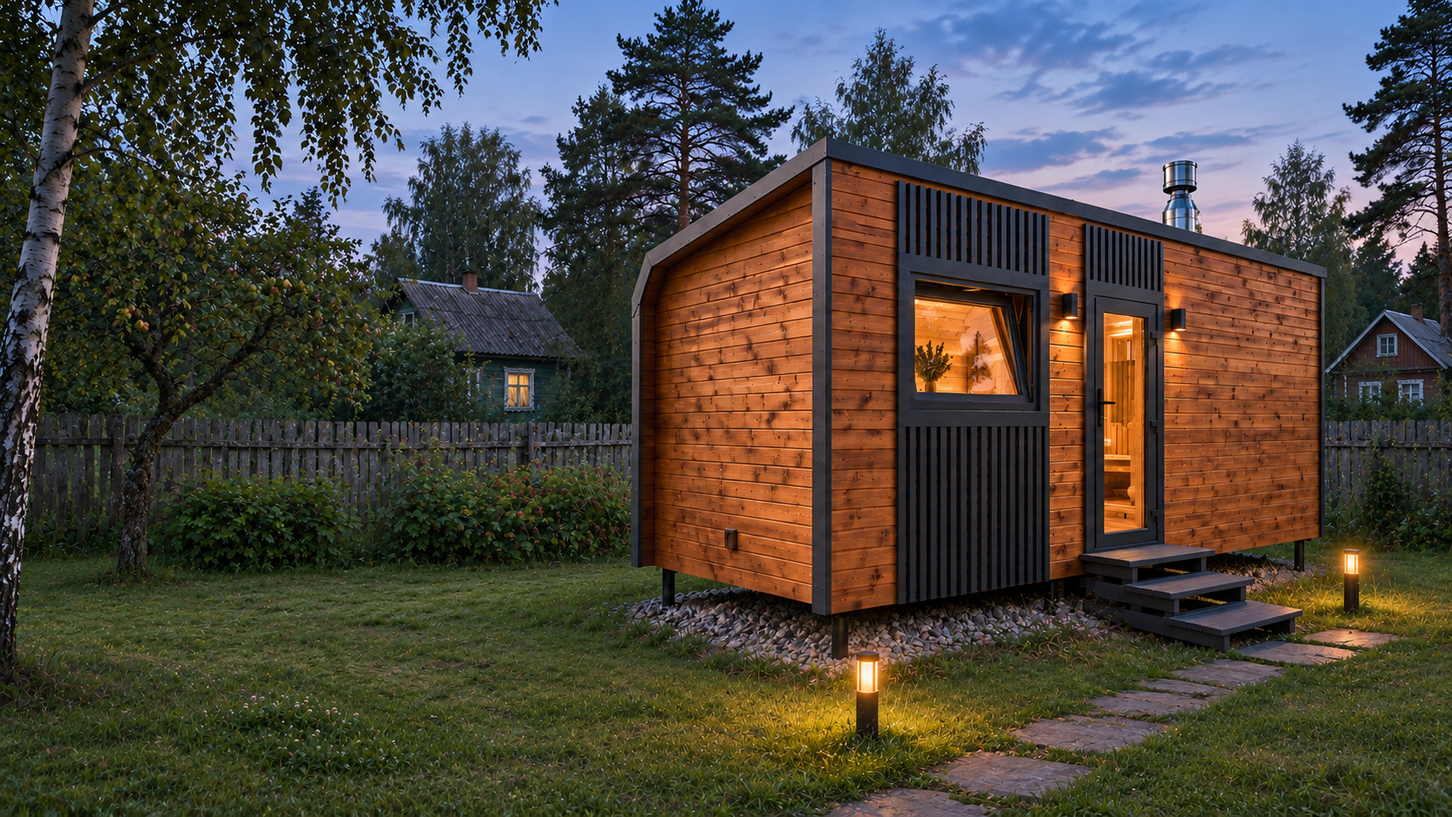
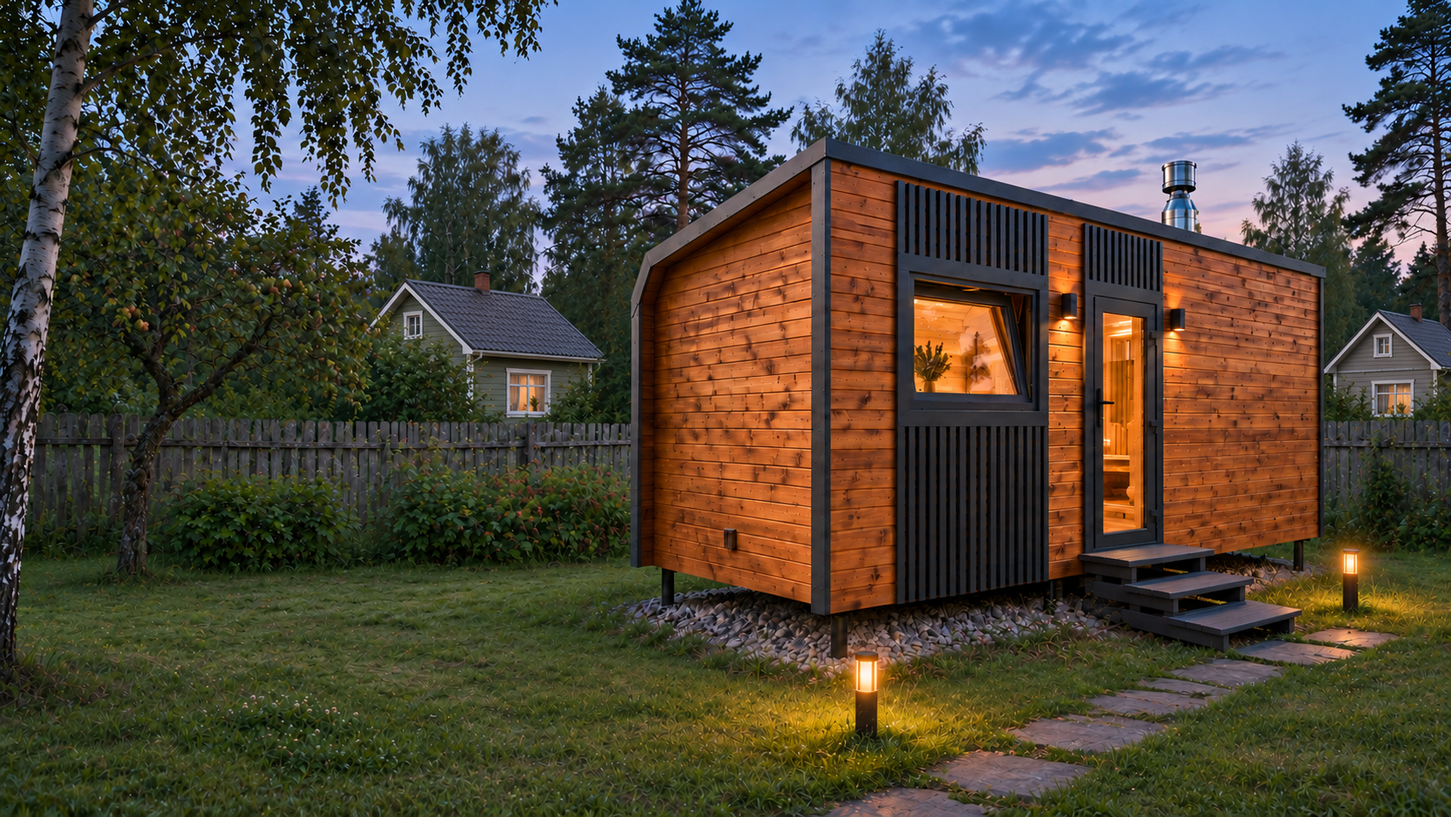
Compact home catalogue and add return links from plans

diff --git a/concepts/home-hero/baseline/plans.html b/concepts/home-hero/baseline/plans.html
@@ -1,0 +1,5 @@
+<!DOCTYPE html>
+
+<html lang="ru"><head><meta charset="utf-8"/><meta content="width=device-width,initial-scale=1" name="viewport"/><meta content="#fafaf7" name="theme-color"/><title>Примеры планировок | ДачаПар</title><meta content="Восемь примеров планировок бань ДачаПар: парная, отдых и душевая зона. По два варианта для каждой модели. Поможем продумать пространство под ваши привычки. " name="description"/><link href="https://xn--80aaan1dh9b.xn--p1ai/planirovki/" rel="canonical"/><meta content="Примеры планировок | ДачаПар" property="og:title"/><meta content="ДачаПар" property="og:site_name"/><meta content="ru_RU" property="og:locale"/><meta content="https://xn--80aaan1dh9b.xn--p1ai/planirovki/" property="og:url"/><meta content="Восемь примеров планировок бань ДачаПар: парная, отдых и душевая зона. По два варианта для каждой модели. Поможем продумать пространство под ваши привычки." property="og:description"/><meta content="website" property="og:type"/><meta content="summary_large_image" name="twitter:card"/><meta content="https://xn--80aaan1dh9b.xn--p1ai/qh-media/assets/photos/kh7-06-960.webp" property="og:image"/><meta content="index,follow" name="robots"/><link as="font" crossorigin="" href="/assets/manrope-cyrillic.woff2" rel="preload" type="font/woff2"/><link href="/r101/vendor/scrollcraft.css" rel="stylesheet"/><link href="/r101/site.css" rel="stylesheet"/><link href="/r101/visual.css" rel="stylesheet"/><script type="application/ld+json">{"@context": "https://schema.org", "@graph": [{"@type": "Organization", "@id": "https://xn--80aaan1dh9b.xn--p1ai/#organization", "name": "ДачаПар", "url": "https://xn--80aaan1dh9b.xn--p1ai/", "telephone": "+79517349999", "areaServed": [{"@type": "City", "name": "Москва"}, {"@type": "AdministrativeArea", "name": "Московская область"}, {"@type": "AdministrativeArea", "name": "Вологодская область"}, {"@type": "AdministrativeArea", "name": "Ярославская область"}, {"@type": "AdministrativeArea", "name": "Ленинградская область"}, {"@type": "City", "name": "Санкт-Петербург"}], "location": {"@type": "Place", "name": "Производство ДачаПар", "address": {"@type": "PostalAddress", "addressLocality": "Вологда", "addressRegion": "Вологодская область", "addressCountry": "RU"}}}, {"@type": "WebSite", "@id": "https://xn--80aaan1dh9b.xn--p1ai/#website", "url": "https://xn--80aaan1dh9b.xn--p1ai/", "name": "ДачаПар", "inLanguage": "ru-RU", "publisher": {"@id": "https://xn--80aaan1dh9b.xn--p1ai/#organization"}}, {"@type": "WebPage", "@id": "https://xn--80aaan1dh9b.xn--p1ai/planirovki/#webpage", "url": "https://xn--80aaan1dh9b.xn--p1ai/planirovki/", "name": "Примеры планировок", "description": "Восемь примеров планировок бань ДачаПар: парная, отдых и душевая зона. По два варианта для каждой модели. Поможем продумать пространство под ваши привычки.", "inLanguage": "ru-RU", "isPartOf": {"@id": "https://xn--80aaan1dh9b.xn--p1ai/#website"}, "breadcrumb": {"@id": "https://xn--80aaan1dh9b.xn--p1ai/planirovki/#breadcrumbs"}}, {"@type": "BreadcrumbList", "@id": "https://xn--80aaan1dh9b.xn--p1ai/planirovki/#breadcrumbs", "itemListElement": [{"@type": "ListItem", "position": 1, "name": "Главная", "item": "https://xn--80aaan1dh9b.xn--p1ai/"}, {"@type": "ListItem", "position": 2, "name": "Примеры планировок", "item": "https://xn--80aaan1dh9b.xn--p1ai/planirovki/"}]}]}</script><link href="/favicon.ico?v=r103" rel="icon" sizes="16x16 32x32 48x48" type="image/x-icon"/><link href="/favicon-48.png?v=r103" rel="icon" sizes="48x48" type="image/png"/><link href="/favicon.svg?v=r103" rel="icon" sizes="any" type="image/svg+xml"/><link href="/favicon-180.png?v=r103" rel="apple-touch-icon" sizes="180x180"/></head><body data-release="R105"><a class="skip" href="#main">К содержанию</a><header class="site-header"><a aria-label="ДачаПар, главная" class="wordmark" href="/"><svg aria-hidden="true" class="mark" viewbox="0 0 32 38"><path d="M6 33c-8-10 8-13 1-23M16 34c-10-12 10-16 1-29M26 32c-8-9 7-12 1-21"></path></svg>дача пар</a><nav aria-label="Основная навигация" class="desktop-nav"><a href="/bani/">Бани и цены</a><a href="/komplektaciya/">Что входит</a><a href="/planirovki/">Планировки</a><a href="/dostavka-i-ustanovka/">Доставка</a></nav><a class="phone" href="tel:+79517349999">+7 (951) 734-99-99</a><button aria-controls="mobile-menu" aria-expanded="false" class="menu-button">Меню</button></header><nav aria-label="Мобильная навигация" class="mobile-menu" hidden="" id="mobile-menu"><a href="/bani/">Бани и цены</a><a href="/komplektaciya/">Что входит</a><a href="/planirovki/">Планировки</a><a href="/dostavka-i-ustanovka/">Доставка</a><a href="/kontakty/">Контакты</a></nav><main id="main"><header class="wrap page-head"><nav aria-label="Навигационная цепочка" class="breadcrumb"><a href="/">Главная</a><span>/</span><span>Как будет устроена&lt;br&gt;ваша баня</span></nav><h1>Как будет устроена<br/>ваша баня</h1><p class="lede">По два примера для каждой модели. Планировку и расстановку мебели можно обсудить индивидуально.</p></header><section class="wrap section" style="padding-top:0"><nav aria-label="Фильтр планировок" class="filters"><a href="/planirovki/">Все модели</a><a href="?model=kvadro">Квадро</a><a href="?model=parus">Парус</a><a href="?model=viking">Викинг</a><a href="?model=kvadro-house">Квадро Хаус</a></nav><p class="form-status" hidden="" id="plan-notice"></p><div class="plan-grid"><article class="plan" data-plan-model="kvadro" id="plan-p1"><a aria-label="Открыть схему Квадро 4 × 2,1 м · вариант 1" href="/assets/plans/r93/p1.webp"><img alt="Квадро 4 × 2,1 м · вариант 1" class="" decoding="async" height="1080" loading="lazy" src="/assets/plans/r93/p1.webp" width="1620"/></a><p class="eyebrow">Квадро · 4 м</p><h3>Для отдыха вдвоём</h3><p>Компактная баня с отдельной парной и местом для чаепития</p><button class="btn" data-inquiry="plan" data-model="kvadro" data-plan="p1" data-plan-label="Для отдыха вдвоём" data-size="400" type="button">Обсудить планировку<span aria-hidden="true">↗</span></button></article><article class="plan" data-plan-model="kvadro" id="plan-p5"><a aria-label="Открыть схему Квадро 6 × 2,1 м · вариант 1" href="/assets/plans/r93/p5.webp"><img alt="Квадро 6 × 2,1 м · вариант 1" class="" decoding="async" height="1080" loading="lazy" src="/assets/plans/r93/p5.webp" width="1620"/></a><p class="eyebrow">Квадро · 6 м</p><h3>С местом для душа</h3><p>Парная, комната отдыха и душевая ниша внутри бани</p><button class="btn" data-inquiry="plan" data-model="kvadro" data-plan="p5" data-plan-label="С местом для душа" data-size="600" type="button">Обсудить планировку<span aria-hidden="true">↗</span></button></article><article class="plan" data-plan-model="parus" id="plan-parus_4000_2400_dry"><a aria-label="Открыть схему Парус 4 × 2,4 м · вариант 1" href="/assets/plans/r93/parus_4000_2400_dry.webp"><img alt="Парус 4 × 2,4 м · вариант 1" class="" decoding="async" height="1080" loading="lazy" src="/assets/plans/r93/parus_4000_2400_dry.webp" width="1620"/></a><p class="eyebrow">Парус · 4 м</p><h3>Для неспешных выходных</h3><p>Парная и комната отдыха в корпусе длиной 4 метра</p><button class="btn" data-inquiry="plan" data-model="parus" data-plan="parus_4000_2400_dry" data-plan-label="Для неспешных выходных" data-size="400" type="button">Обсудить планировку<span aria-hidden="true">↗</span></button></article><article class="plan" data-plan-model="parus" id="plan-parus_5000_2400_wash"><a aria-label="Открыть схему Парус 5 × 2,4 м · вариант 2" href="/assets/plans/r93/parus_5000_2400_wash.webp"><img alt="Парус 5 × 2,4 м · вариант 2" class="" decoding="async" height="1080" loading="lazy" src="/assets/plans/r93/parus_5000_2400_wash.webp" width="1620"/></a><p class="eyebrow">Парус · 5 м</p><h3>Парная и место для душа</h3><p>Больше возможностей для отдыха между заходами</p><button class="btn" data-inquiry="plan" data-model="parus" data-plan="parus_5000_2400_wash" data-plan-label="Парная и место для душа" data-size="500" type="button">Обсудить планировку<span aria-hidden="true">↗</span></button></article><article class="plan" data-plan-model="viking" id="plan-viking_5000_2400_dry"><a aria-label="Открыть схему Викинг 5 × 2,4 м · вариант 1" href="/assets/plans/r93/viking_5000_2400_dry.webp"><img alt="Викинг 5 × 2,4 м · вариант 1" class="" decoding="async" height="1080" loading="lazy" src="/assets/plans/r93/viking_5000_2400_dry.webp" width="1620"/></a><p class="eyebrow">Викинг · 5 м</p><h3>Для пара и компании</h3><p>Две основные зоны в корпусе длиной 5 метров</p><button class="btn" data-inquiry="plan" data-model="viking" data-plan="viking_5000_2400_dry" data-plan-label="Для пара и компании" data-size="500" type="button">Обсудить планировку<span aria-hidden="true">↗</span></button></article><article class="plan" data-plan-model="viking" id="plan-viking_6000_2400_wash"><a aria-label="Открыть схему Викинг 6 × 2,4 м · вариант 3" href="/assets/plans/r93/viking_6000_2400_wash.webp"><img alt="Викинг 6 × 2,4 м · вариант 3" class="" decoding="async" height="1080" loading="lazy" src="/assets/plans/r93/viking_6000_2400_wash.webp" width="1620"/></a><p class="eyebrow">Викинг · 6 м</p><h3>После парной — освежиться</h3><p>Вариант для тех, кто хочет ополоснуться после парной</p><button class="btn" data-inquiry="plan" data-model="viking" data-plan="viking_6000_2400_wash" data-plan-label="После парной — освежиться" data-size="600" type="button">Обсудить планировку<span aria-hidden="true">↗</span></button></article><article class="plan" data-plan-model="kvadro-house" id="plan-p13"><a aria-label="Открыть схему Квадро Хаус 4 × 6 м · вариант 1" href="/assets/plans/r93/p13.webp"><img alt="Квадро Хаус 4 × 6 м · вариант 1" class="" decoding="async" height="1080" loading="lazy" src="/assets/plans/r93/p13.webp" width="1620"/></a><p class="eyebrow">Квадро Хаус · 6×4 м</p><h3>Больше места для общения</h3><p>Парная, душевая и место для общения между заходами</p><button class="btn" data-inquiry="plan" data-model="kvadro-house" data-plan="p13" data-plan-label="Больше места для общения" data-size="6x4" type="button">Обсудить планировку<span aria-hidden="true">↗</span></button></article><article class="plan" data-plan-model="kvadro-house" id="plan-p15"><a aria-label="Открыть схему Квадро Хаус 5 × 6 м · вариант 1" href="/assets/plans/r93/p15.webp"><img alt="Квадро Хаус 5 × 6 м · вариант 1" class="" decoding="async" height="1080" loading="lazy" src="/assets/plans/r93/p15.webp" width="1620"/></a><p class="eyebrow">Квадро Хаус · 6×5 м</p><h3>Отличный отдых большой компании</h3><p>Отдельные помещения для парения, душа и отдыха</p><button class="btn" data-inquiry="plan" data-model="kvadro-house" data-plan="p15" data-plan-label="Отличный отдых большой компании" data-size="6x5" type="button">Обсудить планировку<span aria-hidden="true">↗</span></button></article></div></section><section class="closing section" id="contact"><div class="wrap closing-grid">
+<div><p class="eyebrow">От идеи к своей бане</p><h2>Пусть у дачи<br/>появится свой<br/>банный вечер</h2><p class="muted">Поможем выбрать модель, обсудим оснащение и подготовим предложение для вашего участка.</p><div class="selection-summary" data-closing-choice="" hidden=""></div><div class="actions"><button class="btn" data-inquiry="quote" data-model="" data-size="" type="button">Получить предложение<span aria-hidden="true">↗</span></button><a class="textlink" href="tel:+79517349999">Позвонить</a></div></div>
+<figure><img alt="Чай у окна после банного вечера" class="" decoding="async" height="1024" loading="lazy" sizes="(max-width:760px) calc(100vw - 40px), 50vw" src="/r101/assets/tea-editorial.webp" srcset="/r101/assets/tea-editorial-640.webp 640w, /r101/assets/tea-editorial-960.webp 960w, /r101/assets/tea-editorial.webp 1536w" width="1536"/></figure></div></section></main><footer class="site-footer"><div class="wrap"><div class="footer-top"><a class="wordmark" href="/"><svg aria-hidden="true" class="mark" viewbox="0 0 32 38"><path d="M6 33c-8-10 8-13 1-23M16 34c-10-12 10-16 1-29M26 32c-8-9 7-12 1-21"></path></svg>дача пар</a><nav aria-label="Дополнительная навигация" class="footer-links"><a href="/bani/">Бани и цены</a><a href="/komplektaciya/">Что входит</a><a href="/planirovki/">Планировки</a><a href="/dostavka-i-ustanovka/">Доставка</a><a href="/voprosy/">Вопросы</a><a href="/journal/">Журнал</a><a href="/kontakty/">Контакты</a><a href="/regiony/">География доставки</a></nav><a href="tel:+79517349999">+7 (951) 734-99-99</a></div><div class="footer-bottom"><p>Производство — Вологда. Доставка: Москва и Подмосковье, Петербург и Ленобласть, Вологодская и Ярославская области.</p><a href="/privacy.html">Политика обработки данных</a><a href="/consent.html">Согласие на обработку</a><a href="/requisites.html">Реквизиты</a></div></div></footer><dialog aria-labelledby="inquiry-title" id="inquiry-dialog"><div class="dialog-body"><button aria-label="Закрыть заявку" class="dialog-close" type="button">×</button><p class="eyebrow">Ваша будущая баня</p><h2 id="inquiry-title">Как с вами связаться</h2><p class="dialog-intro">Поможем продумать вашу баню и подготовим предложение с выбранным оснащением и доставкой.</p><div class="selection-summary" id="inquiry-summary"></div><form action="/api/lead" id="inquiry-form" method="post"><fieldset disabled="" id="form-fields" style="border:0;padding:0;margin:0"><div class="form-grid contact-fields"><label>Ваш телефон<input autocomplete="tel" inputmode="tel" maxlength="20" name="phone" placeholder="+7 (999) 123-45-67" required="" type="tel"/></label><label id="channel-field">Удобный способ связи<select name="channel"><option value="phone">Позвонить</option><option value="max">Написать в MAX</option><option value="telegram">Написать в Telegram</option><option value="whatsapp">Написать в WhatsApp</option></select></label></div><details class="form-details"><summary>Добавить пожелания</summary><div class="form-grid"><label>Как к вам обращаться<input autocomplete="name" maxlength="80" name="name" placeholder="Необязательно"/></label><label>Где находится участок<input autocomplete="address-level2" maxlength="140" name="settlement" placeholder="Область, населённый пункт"/></label><label class="full">Что важно для вашей бани<textarea maxlength="300" name="comment" placeholder="Например, нужен душ, большая парная или особое освещение" rows="2"></textarea></label></div></details><p class="consent" id="consent-notice">Отправляя заявку, вы подтверждаете <a href="/consent.html" rel="noopener" target="_blank">согласие на обработку персональных данных</a> для ответа на ваше обращение. <a href="/privacy.html" rel="noopener" target="_blank">Политика обработки данных</a>.</p><button aria-describedby="consent-notice" class="btn form-submit" type="submit">Получить предложение</button></fieldset><p aria-live="polite" class="form-status" id="form-status" role="status"></p><p class="caption" hidden="" id="preview-note">Тестовый просмотр · Заявка останется на этом компьютере</p></form><p class="dialog-contact">Или позвоните нам <a href="tel:+79517349999">+7 (951) 734-99-99</a></p></div></dialog><aside aria-label="Ваш выбранный вариант" class="resume" hidden="" id="resume"><div><small>Ваш выбор</small><strong id="resume-title"></strong></div><button data-resume-inquiry="">Получить предложение ↗</button><button aria-label="Скрыть выбранный вариант" data-dismiss-resume="">×</button></aside><p class="toast" hidden="" role="status"></p><noscript><p class="wrap section">Поможем выбрать баню по телефону <a href="tel:+79517349999">+7 (951) 734-99-99</a>.</p></noscript><script defer="" src="/r101/vendor/scrollcraft.js"></script><script src="/r101/site.mjs" type="module"></script></body></html>

diff --git a/concepts/home-hero/hero.css b/concepts/home-hero/hero.css
@@ -48,3 +48,38 @@
  .hh-trust strong{font-size:15px}
  .hh-trust span{font-size:9px;line-height:1.35}
 }
+/* Compact comparison on the homepage. Existing length and price controls stay interactive. */
+.hh-page #models{padding-bottom:52px}
+.hh-page #models .model-grid{gap:24px 18px}
+.hh-page #models .model-figure{aspect-ratio:2 / 1;margin:0 0 10px}
+.hh-page #models .model-head{margin:0;gap:4px 8px;flex-wrap:wrap}
+.hh-page #models .model-head h3{margin:0;font-size:clamp(19px,1.7vw,26px)}
+.hh-page #models .model-head small{font-size:11px}
+.hh-page #models .model-desc{margin:6px 0 10px;line-height:1.4;font-size:13px}
+.hh-page #models .size-control{margin:0 0 8px}
+.hh-page #models .size-control label{display:flex;justify-content:space-between;align-items:center;gap:8px}
+.hh-page #models .size-control select{width:auto;min-height:44px;padding-block:6px}
+.hh-page #models .price-line{margin:0;padding:7px 0;gap:8px;align-items:center;flex-wrap:wrap}
+.hh-page #models .price-line strong{font-size:21px;white-space:nowrap}
+.hh-page #models .price-line .btn{min-height:44px;padding:8px 10px;font-size:11px}
+.hh-page #models .model-foot{display:flex;flex-wrap:wrap;justify-content:flex-start;gap:0 12px;margin:0;padding:0}
+.hh-page #models .model-foot>*{min-height:44px;display:inline-flex;align-items:center;font-size:12px}
+.hh-page #models .model-foot .hh-card-plans{font-weight:750;color:#2b4e32}
+.hh-page #models .disclosure{margin-top:0}
+.hh-page #models .disclosure summary{padding-block:8px;font-size:12px}
+.hh-plans-navigation{display:flex;flex-wrap:wrap;align-items:center;gap:0 22px;padding-top:12px}
+.hh-plans-navigation a{display:inline-flex;align-items:center;min-height:44px;font-weight:650;font-size:14px}
+@media(min-width:1200px){
+ .hh-page #models .model-grid{grid-template-columns:repeat(4,minmax(0,1fr))}
+ .hh-page #models .model-figure{aspect-ratio:1.85}
+ .hh-page #models .model{display:flex;flex-direction:column}
+ .hh-page #models .model-desc{flex:1}
+}
+html:has(body.hh-page){scroll-padding-top:0}
+.hh-page #models .disclosure{padding-block:0}
+.hh-page #models .price-line .btn{width:auto;min-width:0}
+.hh-page #models .section-heading{margin-bottom:24px}
+@media(min-width:1200px){
+ .hh-page #models .price-line{flex-direction:row;flex-wrap:nowrap}
+ .hh-page #models .price-line .btn{white-space:normal;text-align:center}
+}

diff --git a/concepts/home-hero/hero.html b/concepts/home-hero/hero.html
@@ -16,7 +16,6 @@
     </div>
   </div>
   <aside class="hh-model-note" aria-label="Модель на изображении">
-    <span class="hh-note-kicker">В вашем саду</span>
     <strong id="hh-model-name">Квадро</strong>
     <span id="hh-model-spec">Ширина 2,1 м · длина 4–6 м</span>
     <a id="hh-model-detail" href="/bani/kvadro/">Об этой бане <span aria-hidden="true">↗</span></a>

diff --git a/concepts/home-hero/build.py b/concepts/home-hero/build.py
@@ -1,5 +1,6 @@
 """Build an isolated hero overlay on the captured LIVE home. Does not publish."""
 import hashlib
+import argparse
 import json
 import re
 import shutil
@@ -12,6 +13,7 @@ HERE = Path(__file__).resolve().parent
 ROOT = HERE.parents[1]
 OUT = ROOT / 'output/home-hero-site'
 BASELINE = HERE / 'baseline/index.html'
+PLANS_BASELINE = HERE / 'baseline/plans.html'
 
 
 def sha(data):
@@ -41,10 +43,14 @@ def compose(original, hero):
 
 
 def main():
+    parser = argparse.ArgumentParser()
+    parser.add_argument('--plans-baseline', type=Path, default=PLANS_BASELINE,
+                        help='HTML to receive the return navigation, defaults to the review snapshot')
+    args = parser.parse_args()
     OUT.mkdir(parents=True, exist_ok=True)
     destination = OUT / 'home-hero'
     (destination / 'assets').mkdir(parents=True, exist_ok=True)
-    for name in ['hero.css', 'hero.mjs', 'catalog.mjs', 'roof-points.mjs']:
+    for name in ['hero.css', 'hero.mjs', 'catalog.mjs', 'roof-points.mjs', 'plan-navigation.mjs']:
         shutil.copy2(HERE / name, destination / name)
     for name in ['kvadro', 'parus', 'viking', 'house']:
         original = Image.open(HERE / 'assets' / (name + '.png')).convert('RGB')
@@ -70,9 +76,22 @@ def main():
     else:
         page = page.replace('</head>', '<meta name="robots" content="noindex,nofollow"></head>')
     (OUT / 'index.html').write_text(page, 'utf-8')
-    manifest = {'published': False, 'scope': 'home hero + its header styling only',
+    plans = args.plans_baseline.read_text('utf-8')
+    main_tag = '<main id="main">'
+    if plans.count(main_tag) != 1 or 'class="filters"' not in plans:
+        raise RuntimeError('HOME_HERO_STOP: unexpected plans baseline')
+    navigation = ('<nav class="wrap hh-plans-navigation" aria-label="Назад к выбору бани">'
+                  '<a data-return-catalog href="/#models">← К моделям на главной</a>'
+                  '<a data-return-hero href="/#main">Первый экран ↑</a></nav>')
+    plans = plans.replace(main_tag, main_tag + navigation, 1)
+    plans = plans.replace('</head>', '<link rel="stylesheet" href="/home-hero/hero.css"></head>', 1)
+    plans = plans.replace('</body>', '<script type="module" src="/home-hero/plan-navigation.mjs"></script></body>', 1)
+    (OUT / 'planirovki').mkdir(exist_ok=True)
+    (OUT / 'planirovki/index.html').write_text(plans, 'utf-8')
+    manifest = {'published': False, 'scope': 'home hero, compact catalogue and return navigation on plans',
                 'liveOrigin': 'https://xn--80aaan1dh9b.xn--p1ai', 'capturedDate': '2026-11-02',
                 'baselineHtmlSha256': sha(BASELINE.read_bytes()), 'originalTailSha256': tail_hash,
+                'baselinePlansHtmlSha256': sha(args.plans_baseline.read_bytes()),
                 'cataloguePreserved': True, 'sharedApplicationModulesChanged': False,
                 'pricebookChanged': False, 'apiChanged': False,
                 'files': [{'path': p.relative_to(OUT).as_posix(), 'sha256': sha(p.read_bytes()), 'bytes': p.stat().st_size}

diff --git a/concepts/home-hero/README.md b/concepts/home-hero/README.md
@@ -14,6 +14,15 @@
 [Первый экран](preview-desktop.jpg) · [Телефон](preview-mobile.jpg) ·
 [Парус](preview-parus.jpg) · [Переход к каталогу](preview-scroll.jpg).
 
+В текущем варианте соседние дома обновлены через ImageGen. Подпись «В вашем саду» снята.
+На широком экране четыре карточки каталога идут в один ряд. Прямые ссылки «Планировки»
+открывают существующий фильтр модели. Ссылки над схемами возвращают к каталогу или
+первому экрану и восстанавливают выбранную модель.
+
+Архив предпросмотра использует сохранённый снимок страницы планировок. Для сборки с
+актуальной версией этой страницы передайте её HTML параметром `--plans-baseline`.
+Патч добавляет навигацию перед содержимым, а также подключает её стили и модуль.
+
 ## Решение
 
 Первый экран — весь участок: баня в саду, тёплые окна, дорожка, свет и крупный текст

diff --git a/concepts/home-hero/DACHA-EDIT-PROMPT.md b/concepts/home-hero/DACHA-EDIT-PROMPT.md
@@ -1,5 +1,9 @@
 # ImageGen · дачное окружение · 03.11.2026
 
+Последующая правка соседних домов, применённая ко всем четырём сценам через встроенный ImageGen.
+
+Edit only the small neighboring houses BEHIND the timber fence in this 16:9 image. Replace old weathered houses with modest, recently built Russian timber-frame country houses with simple pitched roofs, clean muted grey or sage siding, normal windows, realistic affordable suburban architecture. Keep them behind the trees and fence at the same distance. Preserve the foreground sauna and chimney, its exact silhouette, every roof pixel position, camera crop, garden, lighting and composition. No luxury, no text. Pixel alignment of foreground is critical for website roof masking.
+
 Встроенный ImageGen, отдельная правка каждого из четырёх исходных кадров из коммита
 `90b664b`. Финальные файлы: `assets/kvadro.png`, `assets/parus.png`, `assets/viking.png`,
 `assets/house.png`.
